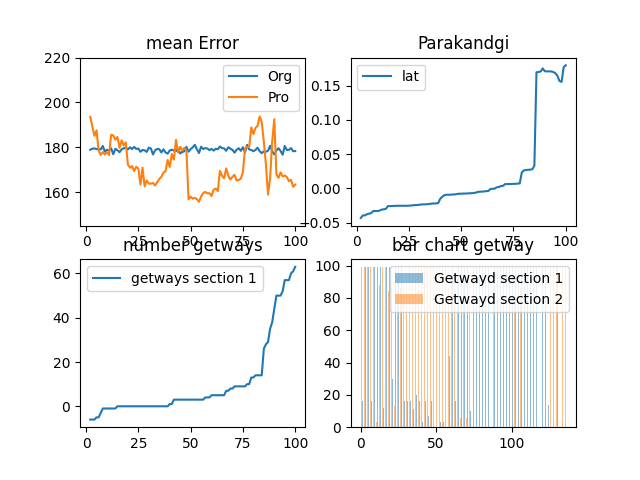
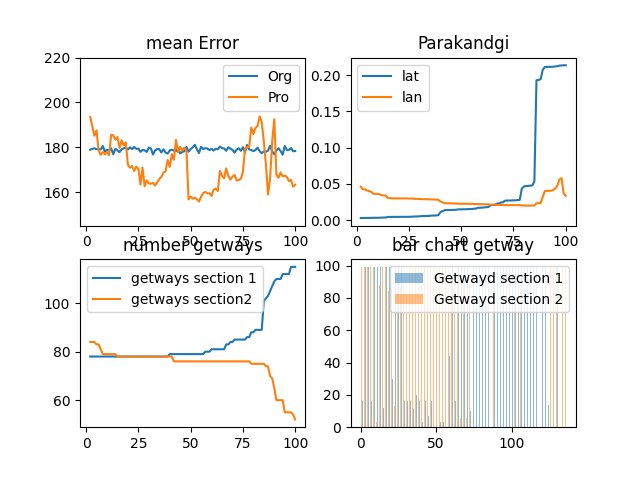
update

diff --git a/1-Data Analysis/6-subplotmeanparakandgi.py b/1-Data Analysis/6-subplotmeanparakandgi.py
@@ -26,7 +26,7 @@ def convert_to_list(list_str):
 # Load datasets and accumulate data
 for i in range(40, 50):
     dataset = np.array(pd.read_csv(f'parakandi plot/data_x_{i}.csv'))
-    endx = -25
+    endx = -50
     row = dataset[2:endx, 0]
     org = dataset[2:endx, 1]
     pro = dataset[2:endx, 2]
@@ -76,43 +76,51 @@ derivative_plot2 = discrete_derivative(plot2)
 derivative_plot3 = discrete_derivative(plot3)
 
 # Function to add straight lines
-def add_straight_lines(ax):
-    ax.axvline(x=10, color='red', linestyle='--')
-    ax.axvline(x=16, color='red', linestyle='--')
-    ax.axvline(x=25, color='blue', linestyle='--')
-    ax.axvline(x=27, color='blue', linestyle='--')
+# def add_straight_lines(ax):
+#     ax.axvline(x=10, color='red', linestyle='--')
+#     ax.axvline(x=16, color='red', linestyle='--')
+#     ax.axvline(x=25, color='blue', linestyle='--')
+#     ax.axvline(x=27, color='blue', linestyle='--')
 
 
 # Plotting the results
 plt.figure()
 
-plt.subplot(231)
+plt.subplot(321)
+plt.title('moshtage(Parakandgi_section1 - Parakandgi_section1)')
 plt.plot(mean_row[:-1], derivative_plot2, label='Normalized Derivative of lat')
 plt.legend()
-add_straight_lines(plt.gca())
+# add_straight_lines(plt.gca())
 
-plt.subplot(232)
-plt.title('Parakandgi')
+plt.subplot(322)
+plt.title('Parakandgi_section1 - Parakandgi_section1')
 plt.plot(mean_row, plot2, label='Normalized lat')
-add_straight_lines(plt.gca())
+# add_straight_lines(plt.gca())
 plt.legend()
 
-plt.subplot(233)
+plt.subplot(323)
 plt.plot(mean_row[:-1], derivative_plot3, label='Normalized Derivative of Gateways')
-plt.legend()
-add_straight_lines(plt.gca())
+plt.title('moshtage(Number of Gateways section 1 - Number of Gateways section 2)')
 
-plt.subplot(234)
-plt.title('Number of Gateways')
+plt.legend()
+# add_straight_lines(plt.gca())
+
+plt.subplot(324)
+plt.title('Number of Gateways section 1 - Number of Gateways section 2')
 plt.plot(mean_row, plot3, label='Normalized Gateways section 1')
-add_straight_lines(plt.gca())
+# add_straight_lines(plt.gca())
 plt.legend()
 
-plt.subplot(235)
-plt.plot(mean_row[:-1], np.convolve(1-(derivative_plot2+(9*derivative_plot3))/10, np.array([1, 1, 1, 1]), mode='same'), label='Normalized Derivative of Gateways')
+plt.subplot(325)
+plt.title('conv3node(mean(1,3))')
+plt.plot(mean_row[:-1], np.convolve(1-(derivative_plot2+(derivative_plot3))/2, np.array([1, 1, 1]), mode='same'), label='Normalized Derivative of Gateways')
 plt.legend()
-add_straight_lines(plt.gca())
+# add_straight_lines(plt.gca())
 
+plt.subplot(326)
+plt.title('mse')
+plt.plot(row,mean_org)
+plt.plot(row,mean_pro)
 
 # plt.savefig('parakandi_plot/mean_plot')
 plt.show()

diff --git a/1-Data Analysis/7-rf_COVEARGE.py b/1-Data Analysis/7-rf_COVEARGE.py
@@ -1,0 +1,27 @@
+import matplotlib.pyplot as plt
+import pandas as pd
+import numpy as np
+
+# Load your dataset
+dataset = np.array(pd.read_csv('../Dataset/Orginal.csv'))
+Input = dataset[:, :137]
+Output = dataset[:, 138:]
+
+# Create a scatter plot for each RSSI value
+for i in range(137):
+    plt.figure()
+    for i2 in range(len(Input)):
+        print(i2)
+        rssi = Input[i2, i]
+        y = Output[i2, 0]
+        x = Output[i2, 1]
+        if (rssi+200) != 0:
+            plt.scatter(x, y, s=((rssi+200)*2), alpha=0.4)
+
+    plt.xlabel('x')
+    plt.ylabel('y')
+    plt.title('RSSI Scatter Plot')
+    plt.xlim(np.min(Output[:, 1]), np.max(Output[:, 1]))
+    plt.ylim(np.min(Output[:, 0]), np.max(Output[:, 0]))
+    plt.grid(True)
+    plt.savefig(f'plot_RF_COVAERAGE/(rssi+200)zarb2/getway_{i}.png')

diff --git a/1-Data Analysis/5-subplot_parakandi.py b/1-Data Analysis/5-subplot_parakandi.py
@@ -43,15 +43,15 @@ for i in range(40,50):
 
     plt.subplot(222)
     plt.title('Parakandgi')
-    plt.plot(row, P1 - P2, label='lat')
-    # plt.plot(row, P2, label='lan')
+    plt.plot(row, P1, label='lat')
+    plt.plot(row, P2, label='lan')
     # plt.ylim([0,0.25])
     plt.legend()
 
     plt.subplot(223)
     plt.title('number getways')
-    plt.plot(row, len_get1 - len_get2, label='getways section 1')
-    # plt.plot(row, len_get2, label='getways section2')
+    plt.plot(row, len_get1 , label='getways section 1')
+    plt.plot(row, len_get2, label='getways section2')
     # plt.ylim([0,138])
     plt.legend()
 
